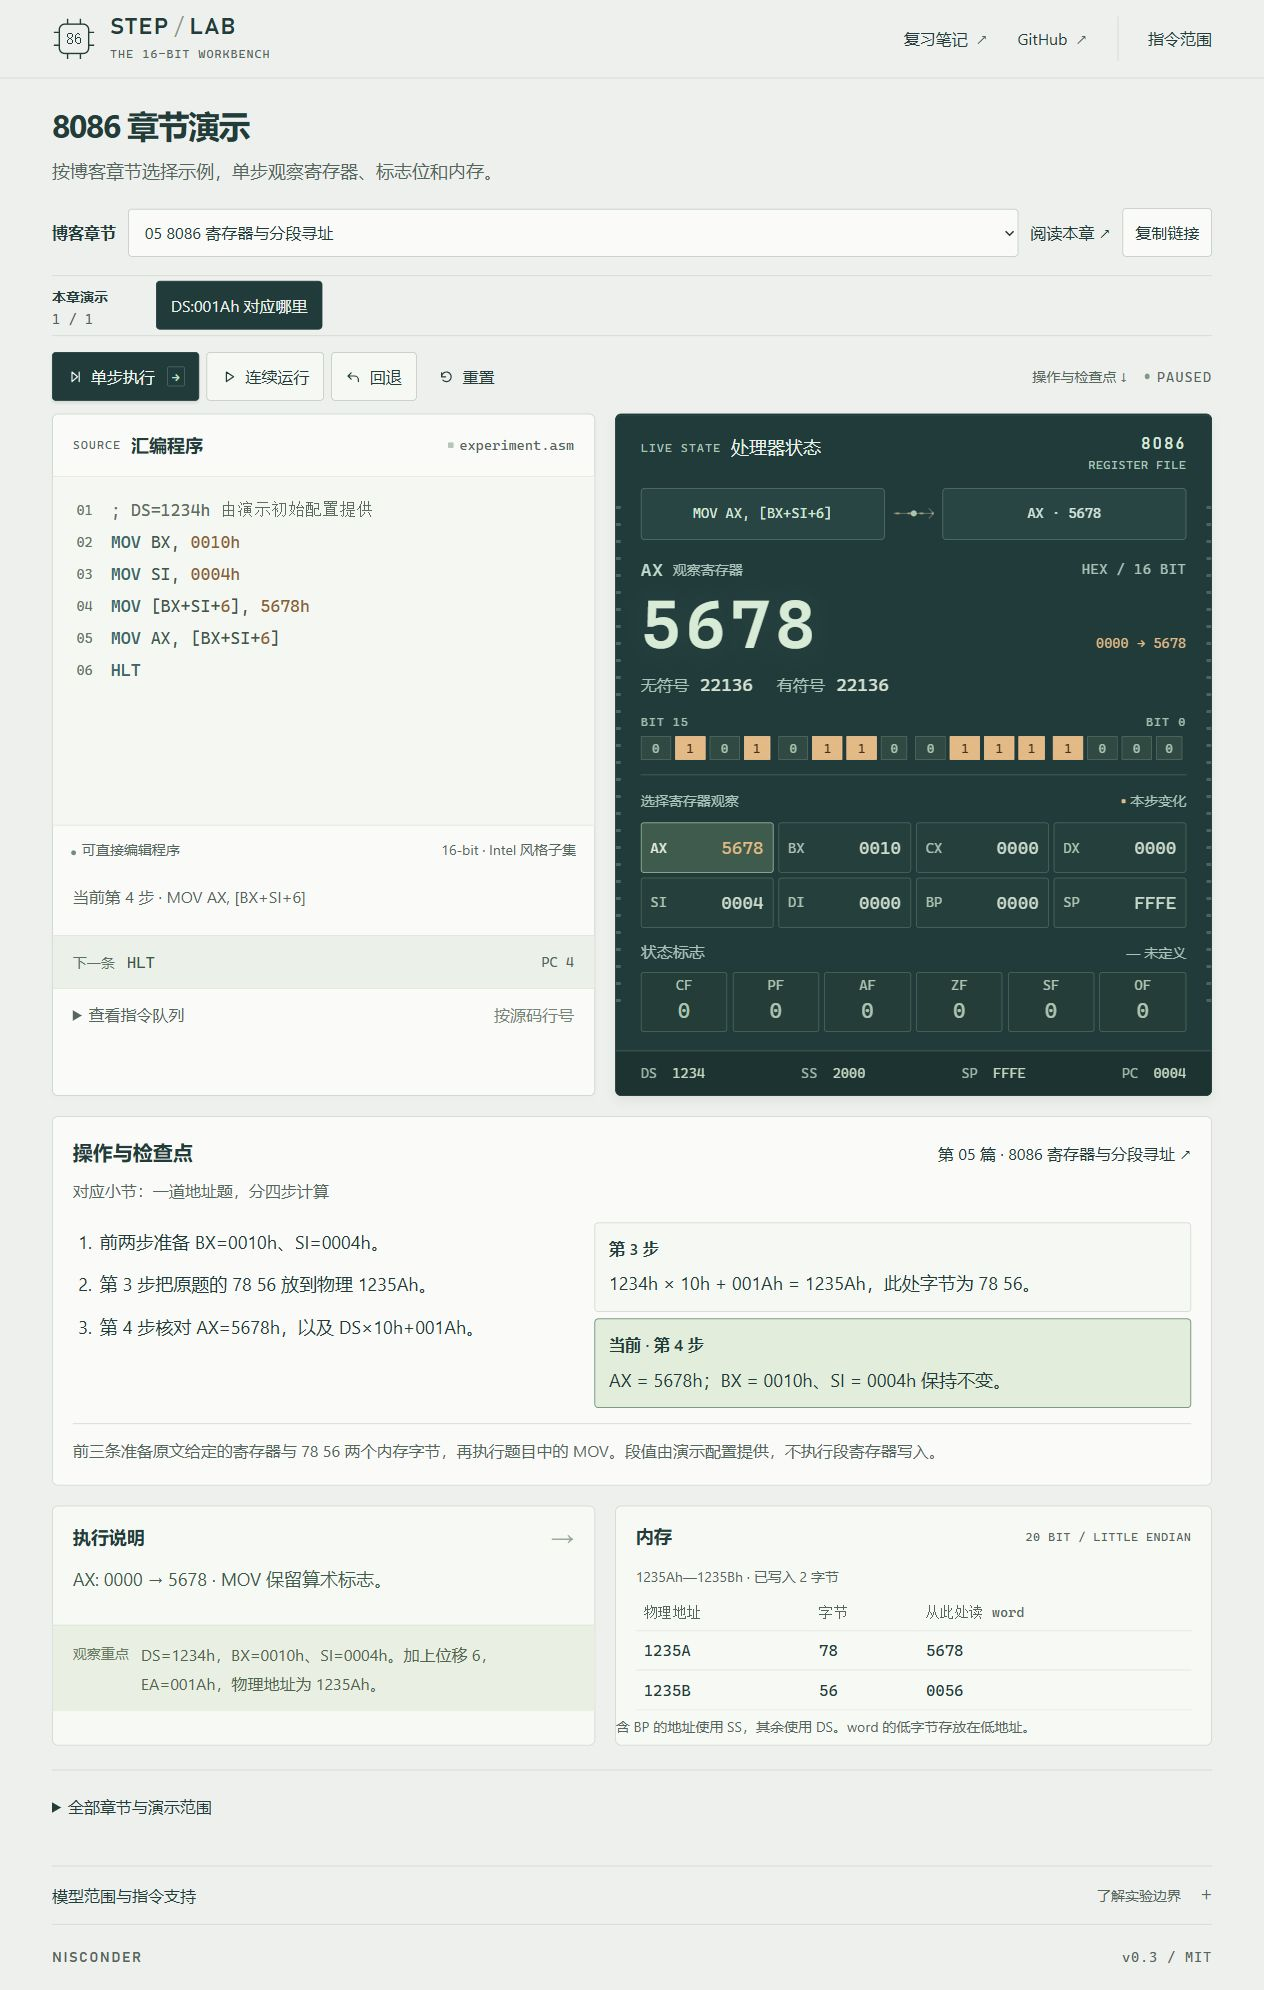
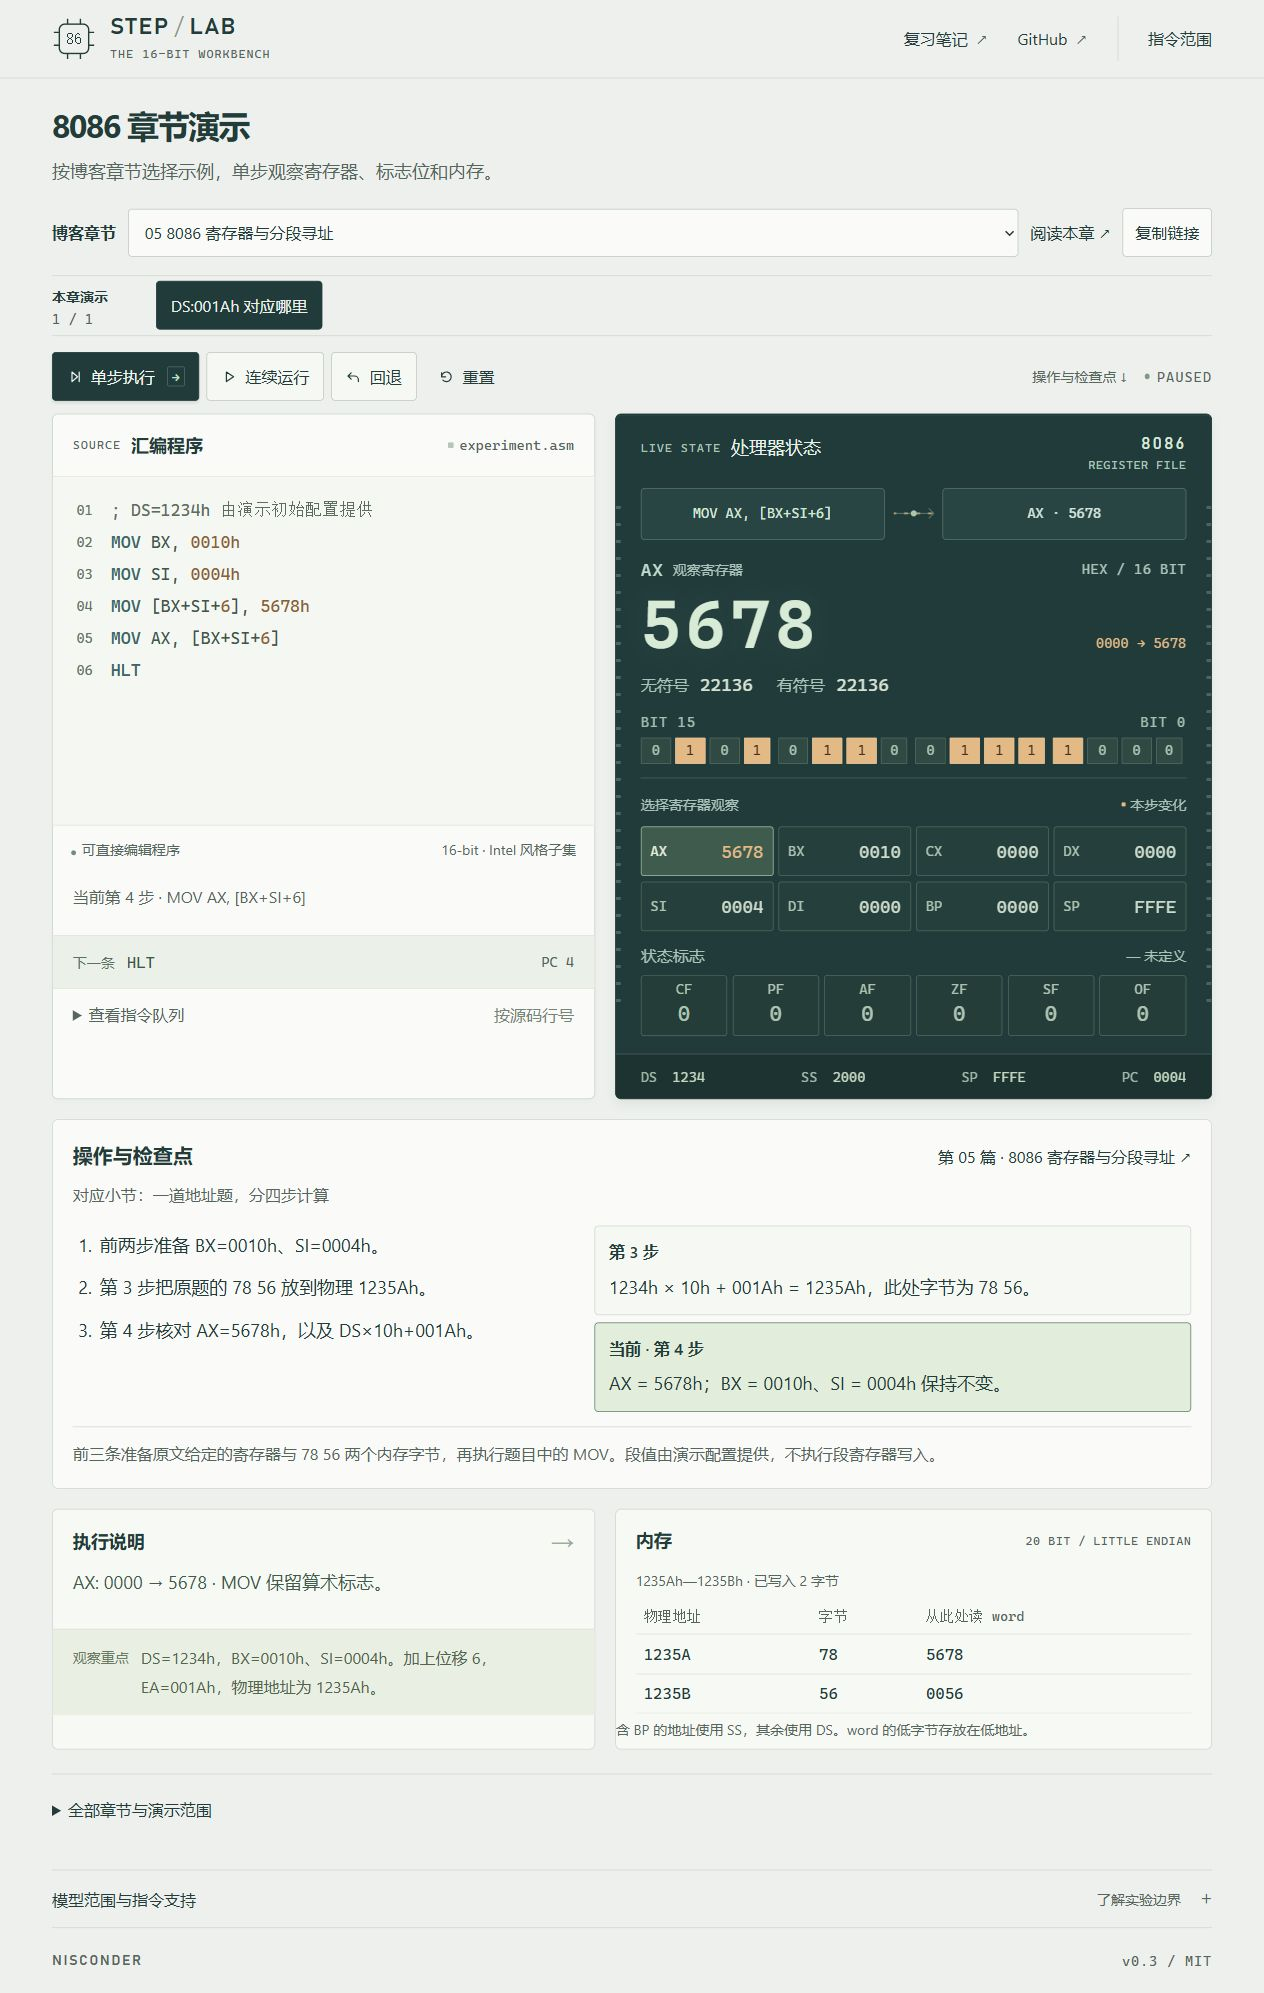
Keep binary and readout labels at 14px

diff --git a/style.css b/style.css
@@ -128,9 +128,9 @@ h2,h3{font-size:var(--text-body);font-weight:600;line-height:1.5;margin:0}
 .readout-value>span.changed-text{color:var(--copper)}
 .value-interpretations{display:flex;flex-wrap:wrap;gap:6px 24px;font-size:var(--text-ui);color:var(--board-muted);margin-top:4px}
 .value-interpretations b{font:var(--text-body) var(--mono);color:#d1e3d2;margin-left:7px}
-.bit-labels{display:flex;justify-content:space-between;font:12px var(--mono);letter-spacing:1px;color:#9bc0ae;margin-top:16px;margin-bottom:7px}
+.bit-labels{display:flex;justify-content:space-between;font:var(--text-label) var(--mono);letter-spacing:1px;color:#9bc0ae;margin-top:16px;margin-bottom:7px}
 .bit-strip{display:grid;grid-template-columns:repeat(16,1fr);gap:4px}
-.bit-strip>span{height:24px;border:1px solid #476b5d;background:#234b43;color:#a1c6b0;display:grid;place-items:center;font:13px var(--mono);border-radius:1px;transition:background .2s,color .2s}
+.bit-strip>span{height:26px;border:1px solid #476b5d;background:#234b43;color:#a1c6b0;display:grid;place-items:center;font:var(--text-label) var(--mono);border-radius:1px;transition:background .2s,color .2s}
 .bit-strip>span:nth-child(4n){margin-right:4px}
 .bit-strip>span.on{background:#abd1b2;border-color:#bdddc0;color:#183e32}
 .bit-strip>span.bit-changed{background:var(--copper);border-color:#f8c491;color:#4b301b}
@@ -226,8 +226,8 @@ footer{display:flex;align-items:center;justify-content:space-between;gap:20px;pa
   .processor{padding:17px 17px 0}.processor-top>div{gap:8px}.processor-model{font-size:15px}
   .processor .section-tag,.processor-model>span{display:none}
   .readout-value{flex-wrap:wrap;gap:0 10px}.readout-value>strong{font-size:64px;letter-spacing:3px}
-  .readout-value>span{margin-bottom:8px}.readout-unit{font-size:12px;letter-spacing:0}
-  .bit-strip{gap:2px}.bit-strip>span{height:24px}.bit-strip>span:nth-child(4n){margin-right:1px}
+  .readout-value>span{margin-bottom:8px}.readout-unit{letter-spacing:0}
+  .bit-strip{gap:2px}.bit-strip>span:nth-child(4n){margin-right:1px}
   .registers{grid-template-columns:repeat(2,1fr);gap:8px}.register-cell{min-height:52px;padding:10px}.register-cell>strong{font-size:20px}
   .segments{margin-left:-17px;margin-right:-17px;padding:14px 17px}.segments b{margin-left:4px}
   .notes-grid{grid-template-columns:1fr;gap:14px;margin-top:14px}.memory-empty{flex-direction:row;align-items:center;gap:17px;min-height:90px}
